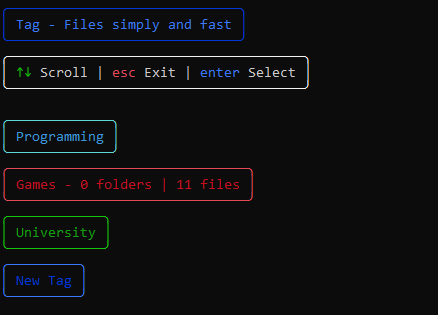
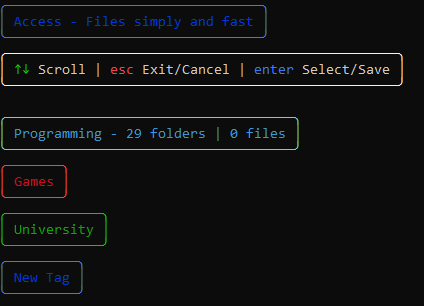
Fixed name

diff --git a/display.py b/display.py
@@ -4,7 +4,7 @@ def display(self,term):
     selected_index = 0
     with term.fullscreen(), term.cbreak(), term.hidden_cursor():
         while True:
-            print(term.move(0, 0) + self.render_tag(f"Tag - Files simply and fast",Color.CBLUE2))
+            print(term.move(0, 0) + self.render_tag(f"Access - Files simply and fast",Color.CBLUE2))
             print(self.render_tag(f"{Color.CGREEN2}{Symbols.UP_ARROW}{Symbols.DOWN_ARROW}{Color.CEND} Scroll | {Color.CRED2}{Symbols.ESC}{Color.CEND} Exit/Cancel | {Color.CBLUE2}{Symbols.ENTER}{Color.CEND} Select/Save",Color.CWHITE2,hasSymbol=True,offset=-1))
 
 
